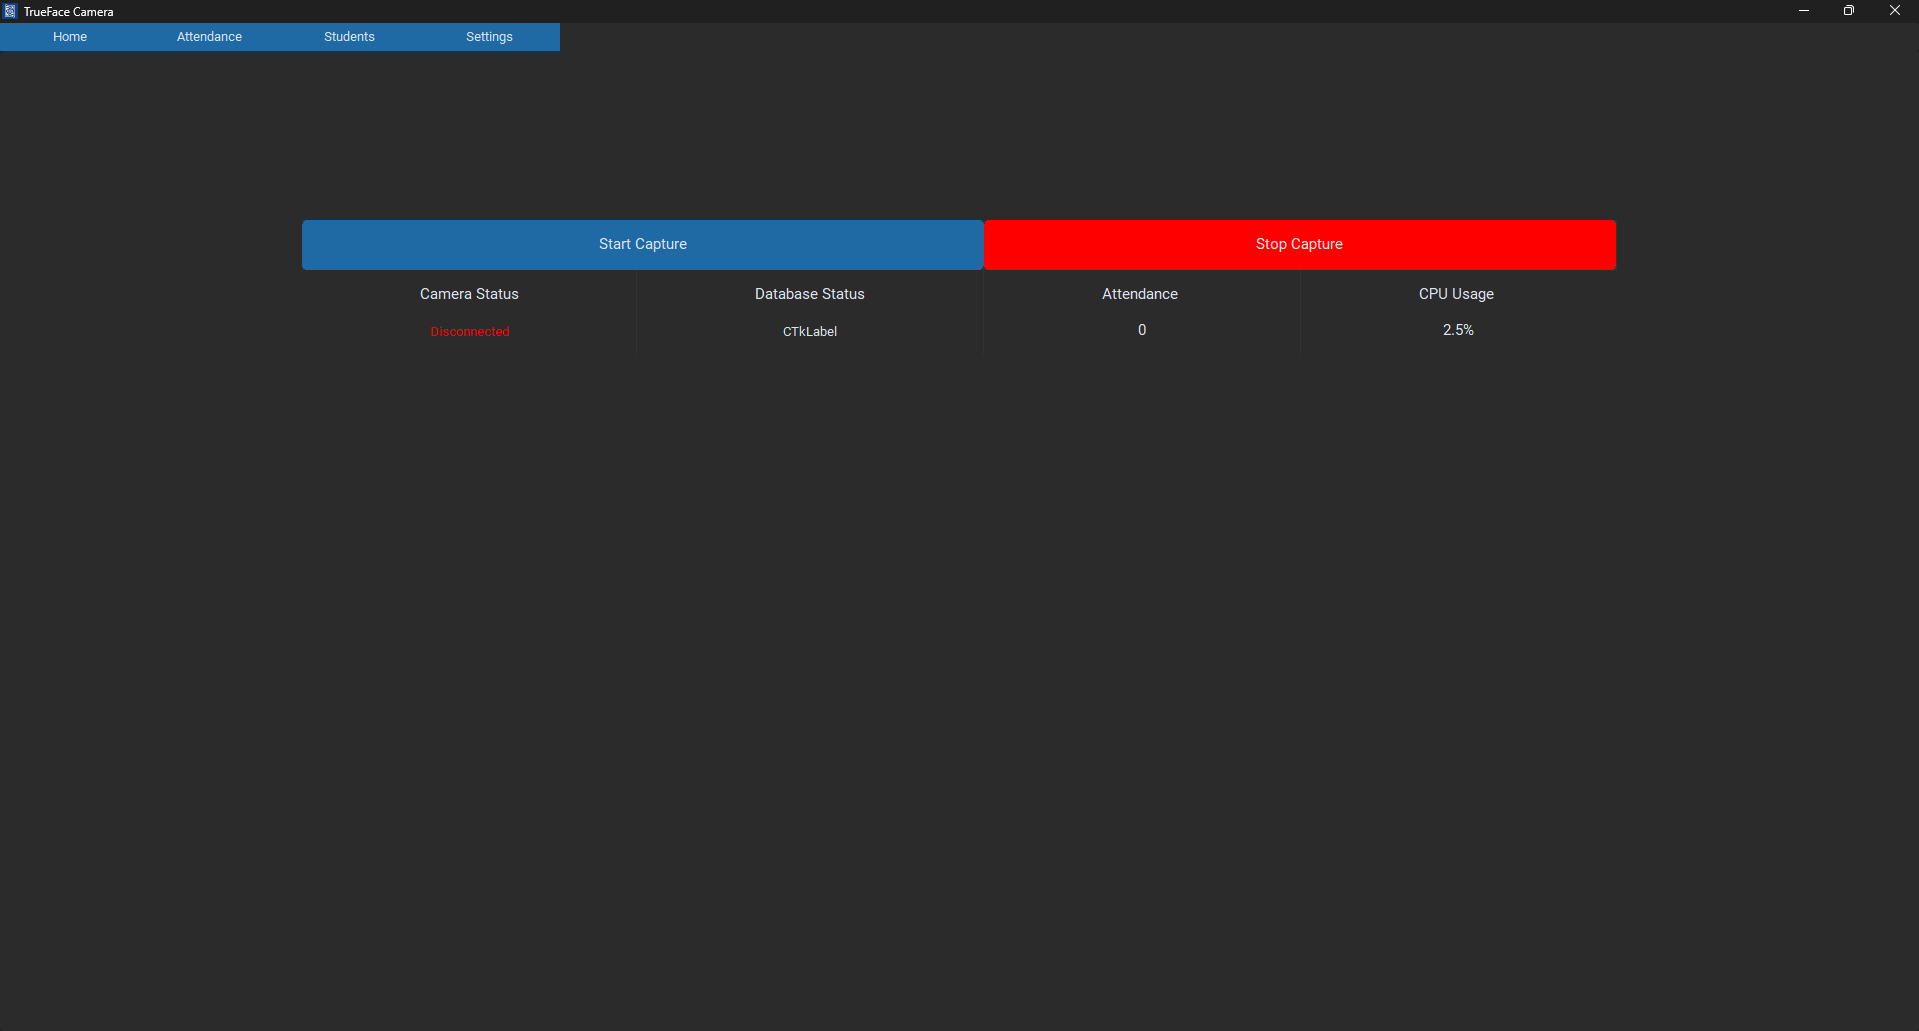
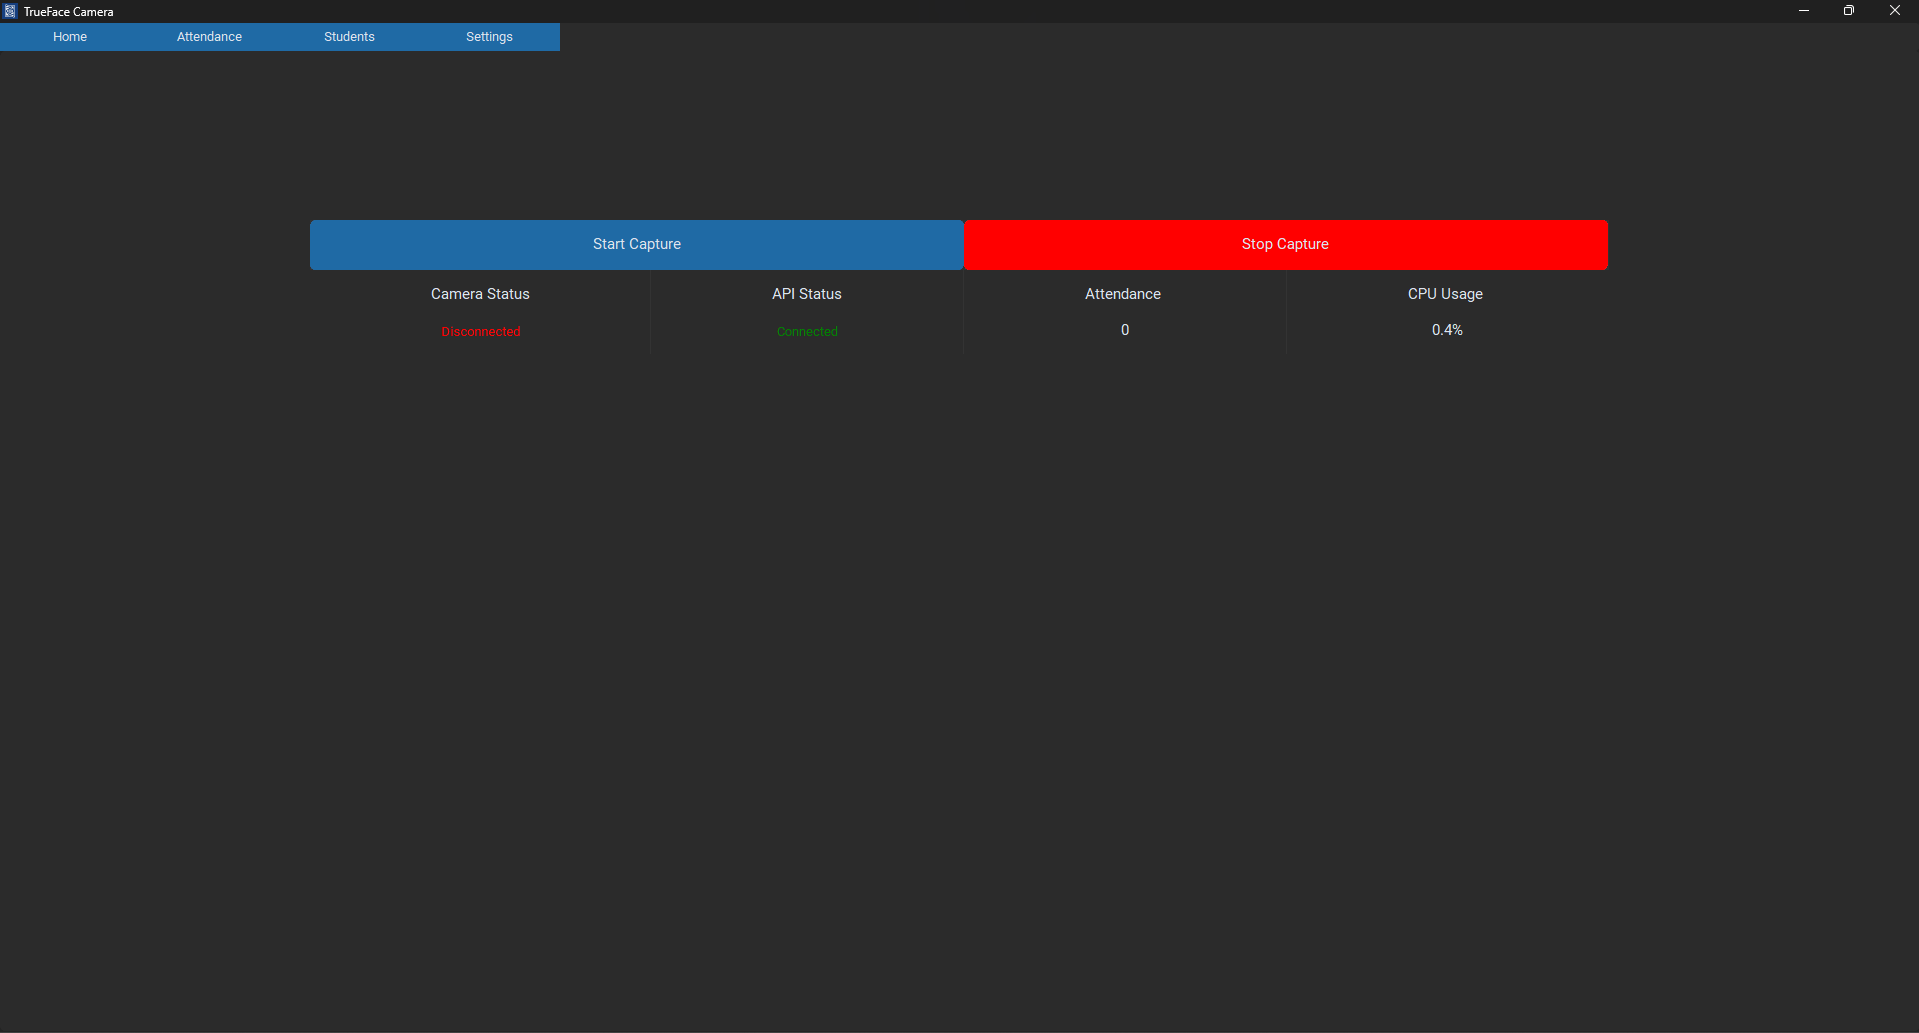
update routing in the controller

diff --git a/TrueFace-Admin/app/controllers/classes.py b/TrueFace-Admin/app/controllers/classes.py
@@ -10,7 +10,7 @@ from app.config.context import Context
 def get_classes() -> list:
 	try:
 		data_manager = Context()
-		response = requests.get(data_manager.get_config().get_base_url() + "/admin/get_classes").content
+		response = requests.get(data_manager.get_config().get_base_url() + "/get_classes").content
 		response = json.loads(response.decode('utf-8'))
 		data_manager = Context()
 
@@ -53,7 +53,7 @@ def add_class(class_object: Class) -> None:
 		data_manager = Context()
 
 		response = requests.post(
-			data_manager.get_config().get_base_url() + "/admin/insert_class",
+			data_manager.get_config().get_base_url() + "/insert_class",
 			data=data
 		).content
 		response = json.loads(response.decode('utf-8'))
@@ -96,7 +96,7 @@ def remove_class(class_id: str, refresh_table_function) -> None:
 			}
 			data_manager = Context()
 			response = requests.post(
-				data_manager.get_config().get_base_url() + "/admin/remove_class",
+				data_manager.get_config().get_base_url() + "/remove_class",
 				data = data
 			).content
 			response = json.loads(response.decode('utf-8'))
@@ -132,7 +132,7 @@ def search_class(class_id: str) -> list:
 		}
 		data_manager = Context()
 		response = requests.get(
-			data_manager.get_config().get_base_url() + "/admin/search_class",
+			data_manager.get_config().get_base_url() + "/search_class",
 			params = data
 		).content
 		response = json.loads(response.decode('utf-8'))
@@ -164,7 +164,7 @@ def get_student_classes(student_id: str) -> None:
 		}
 		data_manager = Context()
 		response = requests.get(
-			data_manager.get_config().get_base_url() + "/admin/get_classes_student_relation",
+			data_manager.get_config().get_base_url() + "/get_classes_student_relation",
 			params = data
 		).content
 		response = json.loads(response.decode('utf-8'))
@@ -216,7 +216,7 @@ def remove_student_from_class(relation_id: str) -> None:
 			}
 			data_manager = Context()
 			response = requests.post(
-				data_manager.get_config().get_base_url() + "/admin/remove_class_student_relation",
+				data_manager.get_config().get_base_url() + "/remove_class_student_relation",
 				data = data
 			).content
 			response = json.loads(response.decode('utf-8'))
@@ -255,7 +255,7 @@ def remove_student_from_all_classes(student_id: str) -> None:
 		}
 		data_manager = Context()
 		response = requests.post(
-			data_manager.get_config().get_base_url() + "/admin/clear_class_student_relation",
+			data_manager.get_config().get_base_url() + "/clear_class_student_relation",
 			data = data
 		).content
 		response = json.loads(response.decode('utf-8'))
@@ -291,7 +291,7 @@ def get_classes_for_selection() -> list:
 	try:
 		data_manager = Context()
 		response = requests.get(
-			data_manager.get_config().get_base_url() + "/admin/get_classes_for_selection"
+			data_manager.get_config().get_base_url() + "/get_classes_for_selection"
 		).content
 		response = json.loads(response.decode('utf-8'))
 
@@ -331,7 +331,7 @@ def add_student_to_class(relation_id: str, student_id: str, class_id: str, class
 		}
 		data_manager = Context()
 		response = requests.post(
-			data_manager.get_config().get_base_url() + "/admin/insert_class_student_relation",
+			data_manager.get_config().get_base_url() + "/insert_class_student_relation",
 			data = data
 		).content
 		response = json.loads(response.decode('utf-8'))

diff --git a/TrueFace-Cam/app/views/Home.py b/TrueFace-Cam/app/views/Home.py
@@ -19,16 +19,19 @@ class Home():
 
   def update_camera_status(self):
     try:
-      if self._camera_manager.found_active_connected_camera:
-        self.camera_status.configure(
-          text = "Connected",
-          text_color = "green"
+      while True:
+        if self._camera_manager.found_active_connected_camera:
+          self.camera_status.configure(
+            text = "Connected",
+            text_color = "green"
+          )
+        else:
+          self.camera_status.configure(
+            text= "Disconnected",
+            text_color = "red"
         )
-      else:
-        self.camera_status.configure(
-          text= "Disconnected",
-          text_color = "red"
-      )
+
+        time.sleep(5)
 
     except Exception as e:
       ExceptionType, ExceptionObject, ExceptionTraceBack = sys.exc_info()
@@ -37,22 +40,25 @@ class Home():
       print(ExceptionObject)
       pass
 
-  def update_database_status(self):
+  def update_api_status(self):
     try:
-      response = requests.get(self._config.get_base_url() + "/",).content
-      response_str = response.decode('utf-8')
-      APIActive = json.loads(response_str)
+      while True:
+        response = requests.get(self._config.get_base_url() + "/",).content
+        response_str = response.decode('utf-8')
+        api_active = json.loads(response_str)
 
-      if not APIActive:
-        self.database_status.configure(
-          text = "Disconnected",
-          text_color = "red"
-        )
-      else:
-        self.database_status.configure(
-          text = "Connected",
-          text_color = "green"
-        )   
+        if not api_active.get("data"):
+          self.database_status.configure(
+            text = "Disconnected",
+            text_color = "red"
+          )
+        else:
+          self.database_status.configure(
+            text = "Connected",
+            text_color = "green"
+          )
+
+        time.sleep(2) 
 
     except Exception as e:
       ExceptionType, ExceptionObject, ExceptionTraceBack = sys.exc_info()
@@ -185,13 +191,13 @@ class Home():
       )
       database_status_frame.grid_propagate(False)
 
-      self.database_status_header = customtkinter.CTkLabel(
+      self.api_status_header = customtkinter.CTkLabel(
         database_status_frame,
         bg_color = "transparent",
         font = customtkinter.CTkFont(size = 15),
-        text = "Database Status"
+        text = "API Status"
       )
-      self.database_status_header.pack(
+      self.api_status_header.pack(
         padx = 5,
         pady = 10
       )
@@ -244,7 +250,7 @@ class Home():
 
       threading.Thread(target = self.update_cpu_metrics).start()
       threading.Thread(target = self.update_attendance_count).start()
-      threading.Thread(target = self.update_database_status).start()
+      threading.Thread(target = self.update_api_status).start()
       threading.Thread(target = self.update_camera_status).start()
 
     except Exception as e:

diff --git a/TrueFace-Cam/app/controllers/attendance.py b/TrueFace-Cam/app/controllers/attendance.py
@@ -14,7 +14,7 @@ def get_current_class_attendance():
       "current_class": database_manager.get_current_class()
     }
     response = requests.get(
-      database_manager.get_config().get_base_url() + "/teacher/get_current_class_attendance",
+      database_manager.get_config().get_base_url() + "/get_current_class_attendance",
       params = data
     ).content
     response = json.loads(response.decode('utf-8'))
@@ -45,7 +45,7 @@ def search_attendance(student_id):
       "student_id": student_id,
     }
     response = requests.get(
-      database_manager.get_config().get_base_url() + "/teacher/search_attendance",
+      database_manager.get_config().get_base_url() + "/search_attendance",
       params = data
     ).content
     response = json.loads(response.decode('utf-8'))
@@ -77,7 +77,7 @@ def check_attendance(student_id):
       "current_class": database_manager.get_current_class()
     }
     response = requests.get(
-      database_manager.get_config().get_base_url() + "/teacher/check_attendance",
+      database_manager.get_config().get_base_url() + "/check_attendance",
       params = data
     ).content
     response = json.loads(response.decode('utf-8'))
@@ -110,7 +110,7 @@ def insert_attendance(student_id, student_name):
         "current_class": database_manager.get_current_class()
       }
       response = requests.post(
-        database_manager.get_config().get_base_url() + "/teacher/insert_attendance",
+        database_manager.get_config().get_base_url() + "/insert_attendance",
         data = data
       ).content
       response = json.loads(response.decode('utf-8'))

diff --git a/TrueFace-Admin/app/controllers/courses.py b/TrueFace-Admin/app/controllers/courses.py
@@ -10,7 +10,7 @@ from app.config.context import Context
 def get_courses() -> list:
   try:
     data_manager = Context()
-    response = requests.get(data_manager.get_config().get_base_url() + "/admin/get_courses").content
+    response = requests.get(data_manager.get_config().get_base_url() + "/get_courses").content
     response = json.loads(response.decode('utf-8'))
     data_manager = Context()
 
@@ -51,7 +51,7 @@ def add_course(course_object: Course) -> None:
     }
     data_manager = Context()
     response = requests.post(
-      data_manager.get_config().get_base_url() + "/admin/insert_course",
+      data_manager.get_config().get_base_url() + "/insert_course",
       data = data
     ).content
     response = json.loads(response.decode('utf-8'))
@@ -94,7 +94,7 @@ def remove_course(course_id: str, refresh_table_function) -> None:
       }
       data_manager = Context()
       response = requests.post(
-        data_manager.get_config().get_base_url() + "/admin/remove_course",
+        data_manager.get_config().get_base_url() + "/remove_course",
         data = data
       ).content
       response = json.loads(response.decode('utf-8'))
@@ -129,7 +129,7 @@ def search_course(course_id: str) -> list:
     }
     data_manager = Context()
     response = requests.get(
-      data_manager.get_config().get_base_url() + "/admin/search_courses",
+      data_manager.get_config().get_base_url() + "/search_courses",
       params = data
     ).content
     response = json.loads(response.decode('utf-8'))

diff --git a/TrueFace-Admin/app/controllers/students.py b/TrueFace-Admin/app/controllers/students.py
@@ -10,7 +10,7 @@ from app.config.context import Context
 def get_students() -> list:
 	try:
 		data_manager = Context()
-		response = requests.get(data_manager.get_config().get_base_url() + "/admin/get_all_students").content
+		response = requests.get(data_manager.get_config().get_base_url() + "/get_all_students").content
 		response = json.loads(response.decode('utf-8'))
 		data_manager = Context()
 
@@ -46,7 +46,7 @@ def add_student(student_object: Student) -> None:
 		data_manager = Context()
 
 		response = requests.post(
-			data_manager.get_config().get_base_url() + "/admin/insert_student",
+			data_manager.get_config().get_base_url() + "/insert_student",
 			data = data,
 		).content
 		response = json.loads(response.decode('utf-8'))
@@ -89,7 +89,7 @@ def remove_student(student_id: str, refresh_table_function) -> None:
 			}
 			data_manager = Context()
 			response = requests.post(
-				data_manager.get_config().get_base_url() + "/admin/remove_student", 
+				data_manager.get_config().get_base_url() + "/remove_student", 
 				data = data
 			).content
 			response = json.loads(response.decode('utf-8'))
@@ -125,7 +125,7 @@ def search_student(student_id: str) -> list:
 		}
 		data_manager = Context()
 		response = requests.get(
-			data_manager.get_config().get_base_url() + "/admin/search_student",
+			data_manager.get_config().get_base_url() + "/search_student",
 			params = data
 		).content
 		response = json.loads(response.decode('utf-8'))

diff --git a/TrueFace-Admin/app/controllers/users.py b/TrueFace-Admin/app/controllers/users.py
@@ -10,7 +10,7 @@ from app.config.context import Context
 def get_users() -> list:
 	try:
 		data_manager = Context()
-		response = requests.get(data_manager.get_config().get_base_url() + "/admin/get_users").content
+		response = requests.get(data_manager.get_config().get_base_url() + "/get_users").content
 		response = json.loads(response.decode('utf-8'))
 		data_manager = Context()
 
@@ -42,7 +42,7 @@ def add_user(user_object: User) -> None:
 		}
 		data_manager = Context()
 		response = requests.post(
-			data_manager.get_config().get_base_url() + "/admin/insert_user",
+			data_manager.get_config().get_base_url() + "/insert_user",
 			data = data
 		).content
 		response = json.loads(response.decode('utf-8'))
@@ -92,7 +92,7 @@ def remove_user(user_id: str, refresh_table_function) -> None:
 			}
 			data_manager = Context()
 			response = requests.post(
-				data_manager.get_config().get_base_url() + "/admin/remove_user",
+				data_manager.get_config().get_base_url() + "/remove_user",
 				data = data
 			).content
 			response = json.loads(response.decode('utf-8'))
@@ -127,7 +127,7 @@ def search_user(user_id: str) -> list:
 		}
 		data_manager = Context()
 		response = requests.get(
-			data_manager.get_config().get_base_url() + "/admin/search_user",
+			data_manager.get_config().get_base_url() + "/search_user",
 			params = data
 		).content
 		response = json.loads(response.decode('utf-8'))

diff --git a/TrueFace-Cam/app/controllers/students.py b/TrueFace-Cam/app/controllers/students.py
@@ -13,7 +13,7 @@ def get_students_with_face_encode():
       "current_class": data_manager.get_current_class(),
     }
     response = requests.get(
-      data_manager.get_config().get_base_url() + "/teacher/get_students_with_face_encode",
+      data_manager.get_config().get_base_url() + "/get_students_with_face_encode",
       params = data
     ).content
     response = json.loads(response.decode('utf-8'))
@@ -45,7 +45,7 @@ def get_current_class_students():
       "current_class": database_manager.get_current_class()
     }
     response = requests.get(
-      database_manager.get_config().get_base_url() + "/teacher/get_class_students",
+      database_manager.get_config().get_base_url() + "/get_class_students",
       params = data
     ).content
     response = json.loads(response.decode('utf-8'))

diff --git a/TrueFace-Cam/app/controllers/reports.py b/TrueFace-Cam/app/controllers/reports.py
@@ -15,7 +15,7 @@ def get_report(start_time, allowed_minutes):
       "current_classes": database_manager.get_current_class()
     }
     response = requests.get(
-      database_manager.get_config().get_base_url() + "/teacher/get_class_attendance_report",
+      database_manager.get_config().get_base_url() + "/get_class_attendance_report",
       params = data
     ).content
     response = json.loads(response.decode('utf-8'))

diff --git a/TrueFace-Cam/app/controllers/classes.py b/TrueFace-Cam/app/controllers/classes.py
@@ -13,7 +13,7 @@ def get_current_teacher_classes():
       "current_teacher": database_manager.get_token()
     }
     response = requests.get(
-      database_manager.get_config().get_base_url() + "/teacher/get_current_teacher_classes",
+      database_manager.get_config().get_base_url() + "/get_current_teacher_classes",
       params = data
     ).content
     response = json.loads(response.decode('utf-8'))

diff --git a/Trueface-Backend/Teacher/urls.py b/Trueface-Backend/Teacher/urls.py
@@ -1,7 +1,9 @@
 from django.urls import path
-from .controllers import classes, students, attendance
+from .controllers import classes, students, attendance, health
 
 urlpatterns = [
+  # health
+  path('', health.health),
   # attendance
   path('get_current_class_attendance', attendance.get_current_class_attendance),
   path('search_attendance', attendance.search_attendance),

diff --git a/TrueFace-Admin/app/controllers/auth.py b/TrueFace-Admin/app/controllers/auth.py
@@ -15,7 +15,7 @@ def login(email, password) -> str:
     data_manager = Context()
 
     response = requests.get(
-      data_manager.get_config().get_base_url() + "/admin/check_user",
+      data_manager.get_config().get_base_url() + "/check_user",
       params=data
     ).content
     response = json.loads(response.decode('utf-8'))

diff --git a/TrueFace-Admin/app/models/student.py b/TrueFace-Admin/app/models/student.py
@@ -55,7 +55,7 @@ class Student:
         "student_id": self.student_id
       }
       response = requests.get(
-        self.config.get_base_url() + "/admin/check_duplicated_id",
+        self.config.get_base_url() + "/check_duplicated_id",
         params = data
       ).content
       response = json.loads(response.decode('utf-8'))
